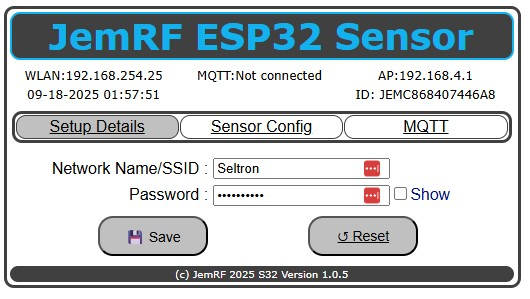
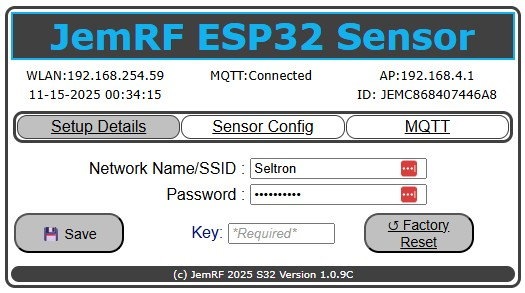
Update for new whitelabel features and access controls.

diff --git a/pages/wifidocs/wifi32s-whitelabel.md b/pages/wifidocs/wifi32s-whitelabel.md
@@ -1,7 +1,7 @@
 ---
 title: The ESP32 WIFI Sensor Whitelabel
 keywords: Setting Custom settings for ESP-32 based WiFI Sensor
-last_updated: Sept 20, 2025
+last_updated: Nov 14, 2025
 tags:
 sidebar: wifi_sidebar
 permalink: wifi32s-whitelabel.html
@@ -12,23 +12,44 @@ folder: wifidocs
 The WiFi Version 2 Sensor supports a private control panel. The hidden control panel provides customization of the sensor when viewed on the regular sensor control panels. 
 
 Option allow:
-* Customizing the banner words and title at the top, including foreground and background colors.
-* Hiding the Server URL if not used
-* * Or it can be set and then hidden from your customers
-* Hiding the Token field
-* Hiding the Server Status in the banner area at the top of the page
-* Showing the options to set the network address manually
+1. Customizing the banner words and title at the top, including foreground and background colors.
+2. Hiding the Server Status in the banner area at the top of the page
+3. Hiding the Server URL if not used
+* * Or it can be set and then hidden from your customers if used else leave blank before hidding
+4. Hiding the Token field
+5. Showing the options to set the network address manually
 * * It can also be set and then hidden from your customers
-* Enable or hide the Relay Config Tab if not needed.
+6. Enable Authentification on Setup, Sensor Confi and MQTT control panels
+7. Enable or hide the Relay Config Tab if not needed.
+8. Enter a Custom User Key (Must be 10 characters)
 
+At the bottom is the field for the Authentification Key.
+
+The default is the MMDD plus the last to digits of the Year plus the 4 characters of the Device Id after JEM
+Example: 
+Date is **11**-**15**-20**25** 00:13:25
+ID: JEM**C868**407446A8
+The default Key would be 111525C868.
+The default Key is base on the Sensor time and changes each day.
 
 The image below shows the White Label Option page.
 
 {% include image.html file="jemrfesp32whitelabel.jpg" alt="White Label Options"%}
+
+The next image shows all the different fields that can be shown or hidden using Whitelabel option 1-7.
+
+{% include image.html file="jemrfesp32whitelabel-mu.jpg" alt="White Label Options"%}
 
 The image below displays the default Setup Details tab, which includes all available options.
 {% include image.html file="jemrf32sensorsetup.jpg" alt="Full Setup Options"%}
 
 With all the options set to hide, the Setup Details tab is set to minimal, and the Relay Tab is gone
 {% include image.html file="jemrf32sensorsetupmin.jpg" alt="Minimun Setup Options"%}
+
+The Key field will turn Yellow when there is a change that needs the Key to authorize. When the correct Key is entered and you click off the Key field it will be validated and turn Green if Ok and Red if incorrec.
+
+{% include image.html file="jemrfesp32whitelabel2.jpg" alt="White Label Options"%}
+
+
+{% include image.html file="jemrfesp32whitelabel3.jpg" alt="White Label Options"%}
 

diff --git a/pages/wifidocs/wifi32s-remote-relay-switch.md b/pages/wifidocs/wifi32s-remote-relay-switch.md
@@ -8,6 +8,13 @@ permalink: wifi32s-remote-relay-switch.html
 folder: wifidoc
 ---
 ## Introduction
+The S32 WiFi Sensor supports two electronic switches (referred to as Relays) use to turn a remote 5 volt relay on or off. When this feature is ordered there are two JST PH2.5 sockets on the to plug and external relay. There is also a JST PH2.0 connector to provide 5 VDC if needed.
+
+The relays can be manually turned On or Off by pressing the Toggle button.
+
+The relay values are reported to the Server and to the MQTT Broker when activated.
+
+The relays can also be turned Off or On using the MQTT subscribe write.
 
 {% include image.html file="jemrf32srelayctrl.jpg" alt="WiFi Relay Controls"%}
 
@@ -17,20 +24,7 @@ Connecting a relay switch to the WIFI controller.
 
 WARNING : Mains electricity can kill if you are careless or lacking in knowledge of how to connect high voltage.
 
-
-## Configuring the WIFI controller.
-
-Before you start this configuration ensure you have already followed the getting started guide that shows you how to connect your device to your WIFI router and to the JemRF clound server (optional).
-
-Open up the WIFI configuration screen by browsing to your WIFI devices IP address in a browser and then click on the Sensor Config menu. If you want to be able to control the device using your PrivateEyePi dashboard then click on the "Allow external control" check box as shown below.
-
-{% include image.html file="allow external control.png" alt="WiFi allow external control"%}
-
-All the other settings in the above image may vary to yours depending on the type of sensor you have and what settings you configured earlier in the Getting Started Guide.
-
-Security Note:
-The "Allow external control" option will allow you to switch things on/off from the WWW outside your home network. Communications to the outside world are encrypted, but it is important to keep your Token (from the Login Details Screen) secret. Anyone with your token will be able to control the GPIO ports of your WIFI controller. If you suspect your token has been compromised then you can deny access to the device by de-selecting the "Allow external control". 
-
+ 
 ### You can switch the relay using the following URL to your device:
 
 This will switch Relay 1 off:

diff --git a/pages/wifidocs/wifi32s-mqtt.md b/pages/wifidocs/wifi32s-mqtt.md
@@ -38,7 +38,8 @@ Using the sensor shown in Figure 2
 
 ## MQTT Formats
 ### JemRF
-This is our original format designed to support the RF sensors with the WiFi Wireless Gateway.  It is now also used by the WiFi Sensor.
+This is our original format designed to support the RF sensors with the WiFi Wireless Gateway.  It is now also used by the WiFi Sensor./
+All messages are limited to each sensor resulting in a discrete MQTT message for each sensor. The Temperature and Humidity sensor is a single sensor so messages include both temperature and humidity in one message. All other sensors are discrete readings.
 
 The Gateway or the WiFi Sensor default topic is: [JEM {Gateway Id}] or [PEP {PEP Id}]/
 
@@ -71,4 +72,12 @@ With Payload for temperature only (Gateway or Sensor) with readings set to Fahre
 [probe id] = [[{"temperature":"80.42","unit_of_measurement":"F"}],[{"humidity":"53.10","unit_of_measurement":"%"}]]
 
 {% include note.html content="For the WiFi unit with the Temperature and Humidity Sensor, the Probe Id is the Device Id."%}
+
+#### Relau Payload 
+The relay state is 0 for Off and 1 for On.\
+Example Relay message
+
+[{"relay2":"0","unit_of_measurement":"State"}]
+
+
 

diff --git a/pages/wifidocs/wifi32s-sensor.md b/pages/wifidocs/wifi32s-sensor.md
@@ -34,6 +34,9 @@ The S32 WiFi Sensor intelligence monitors for network connection, gets time from
 - Although the sensor is highly accurate (±0.5°C accuracy) you can calibrate the temperature reading using a configuration in the WiFI sensor app
 - The device supports dual WiFi mode, allowing it to be WiFI access point and a WiFI client at the same time. A WiFI access point advertises itself through an SSID and can be connected to via any device or computer that has WiFI.
 - MQTT Setup page for connection to the MQTT Broker to relay temperature and humidity readings. The WiFi Sensor supports 2 MQTT formats, more details at [WiFi Gateway MQTT Explained](https://documents.jemrf.com/gatewaymqtt.html). The MQTT connection can be upgraded from a standard non-secure to a secure, trusted connection.
+- JST PH2.0 plug option for external 5 volt DC external power or to provide power to external devices.
+- JST PH2.5 plugs for external relay options.
+- JST PH2.0 3 pin plug for external Pressure Sensor, Door Sensor or Flow meter.
 
 ## Required, but not included:
 

diff --git a/pages/wifidocs/wifi_intro.md b/pages/wifidocs/wifi_intro.md
@@ -53,7 +53,7 @@ This configuration utilizes the DS18B20 at the end of a 1-meter or 5-meter cable
 This configuration uses an Internal HTU21D to measure temperature and humidity.
 #### Support remote Pressure Sensor
 The sensor can support 5-volt analog pressure sensors from 50 to 500 PSI.
-### Support for Flow Meter
+#### Support for Flow Meter
 The sensor supports a digital toggle flow meter with calibration for flow counts, ranging from gallons to liters per minute.
 ##### Remote Control Relays
 The S32 WiFi Sensor can control two remote Relays. 

diff --git a/pages/wifidocs/wifi32s-pressure.md b/pages/wifidocs/wifi32s-pressure.md
@@ -8,7 +8,7 @@ permalink: wifi32s-pressure.html
 folder: wifidoc
 ---
 ## Introduction
-
+The S32 WiFi Sensor support an external 3 wire analog Pressure Sensor. The pressure sensor supported is for a 5 volt DC analog sensor from 50 PSI to 1000 PSI. There is setting to tell the unit what the PSI limit of the pressure sensor is.
 
 ## Quick Start
 
